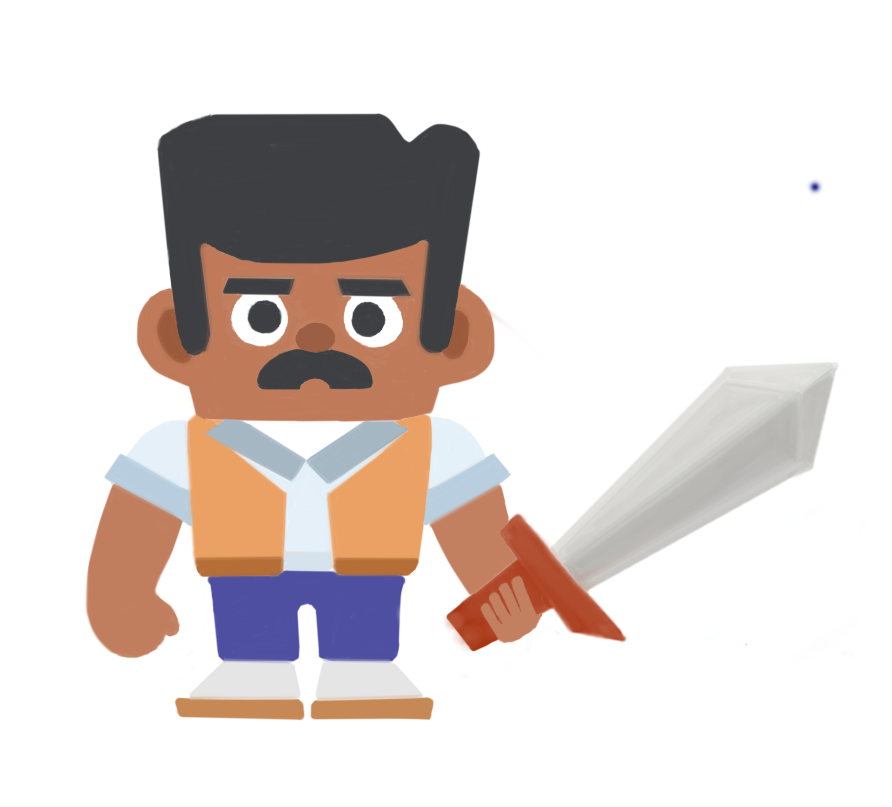
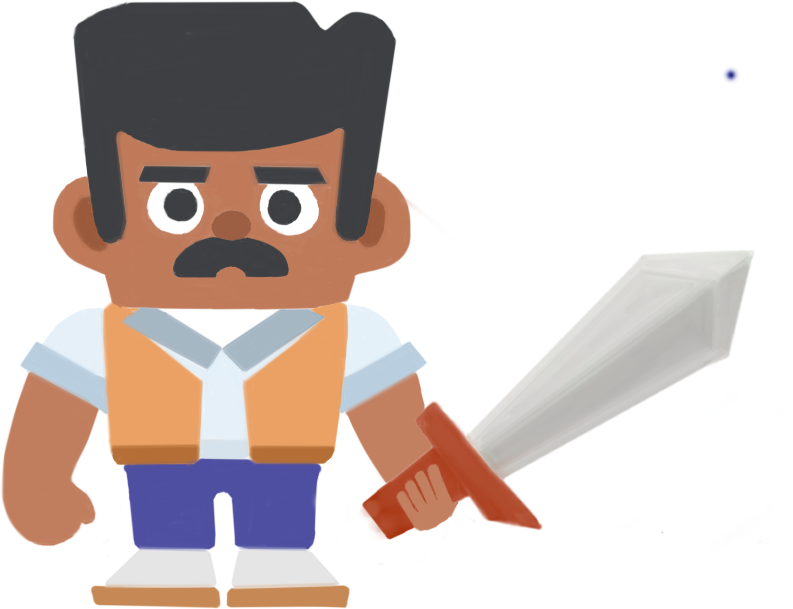
完成基础战斗界面相关UI以及对应代码

diff --git a/src/GameScene.ts b/src/GameScene.ts
@@ -1,11 +1,11 @@
 class GameScene extends Scene {
 	public hero11: Hero;
     public hero12: Hero;
-    public hero13: Hero;
     public hero21: Hero;
     public hero22: Hero;
-    public hero23: Hero;
-	
+	public first_hero: eui.Image;
+	public second_hero: eui.Image;
+	public timer: eui.Image;
 	public game_button:eui.Button;
 	public constructor() {
 		super();
@@ -22,28 +22,25 @@ class GameScene extends Scene {
 		super.childrenCreated();
 	}
 	protected onComplete(){
+
+		this.first_hero.texture = RES.getRes("swordman_png");
+		this.second_hero.texture = RES.getRes("bowman_png");
         this.hero11 = new Hero(1,1,"foot");
-		this.hero12 = new Hero(1,2,"archer");
-		this.hero13 = new Hero(1,3,"archer");
-		this.hero21 = new Hero(2,2,"archer");
-		this.hero22 = new Hero(2,1,"foot");
-		this.hero23 = new Hero(2,3,"foot");
-		var heros = [this.hero11,this.hero12,this.hero13,this.hero21,
-		this.hero22,this.hero23,
+		this.hero12 = new Hero(1,2,"archer");;
+		this.hero21 = new Hero(2,1,"archer");
+		this.hero22 = new Hero(2,2,"foot");
+		var heros = [this.hero11,this.hero12,this.hero21,
+		this.hero22,
 		]
 		var mcs= [this.hero11.mc, 
 		this.hero12.mc,
-		this.hero13.mc,
 		this.hero21.mc,
-		this.hero22.mc,
-		this.hero23.mc];
-        heros[0].target = heros[3];
-		heros[1].target = heros[4];
-		heros[2].target = heros[5];
-		heros[3].target = heros[0];
-		heros[4].target = heros[1];
-		heros[5].target = heros[2];
-        for (let i = 0; i < 6; i++ ){
+		this.hero22.mc,];
+        heros[0].target = heros[2];
+		heros[1].target = heros[3];
+		heros[2].target = heros[0];
+		heros[3].target = heros[1];
+        for (let i = 0; i < 4; i++ ){
 		this.addChild(mcs[i]);
 		}
         this.game_button.addEventListener(egret.TouchEvent.TOUCH_TAP, this.tap, this);

diff --git a/bin-debug/GameScene.js b/bin-debug/GameScene.js
@@ -20,28 +20,25 @@ var GameScene = (function (_super) {
         _super.prototype.childrenCreated.call(this);
     };
     GameScene.prototype.onComplete = function () {
+        this.first_hero.texture = RES.getRes("swordman_png");
+        this.second_hero.texture = RES.getRes("bowman_png");
         this.hero11 = new Hero(1, 1, "foot");
         this.hero12 = new Hero(1, 2, "archer");
-        this.hero13 = new Hero(1, 3, "archer");
-        this.hero21 = new Hero(2, 2, "archer");
-        this.hero22 = new Hero(2, 1, "foot");
-        this.hero23 = new Hero(2, 3, "foot");
-        var heros = [this.hero11, this.hero12, this.hero13, this.hero21,
-            this.hero22, this.hero23,
+        ;
+        this.hero21 = new Hero(2, 1, "archer");
+        this.hero22 = new Hero(2, 2, "foot");
+        var heros = [this.hero11, this.hero12, this.hero21,
+            this.hero22,
         ];
         var mcs = [this.hero11.mc,
             this.hero12.mc,
-            this.hero13.mc,
             this.hero21.mc,
-            this.hero22.mc,
-            this.hero23.mc];
-        heros[0].target = heros[3];
-        heros[1].target = heros[4];
-        heros[2].target = heros[5];
-        heros[3].target = heros[0];
-        heros[4].target = heros[1];
-        heros[5].target = heros[2];
-        for (var i = 0; i < 6; i++) {
+            this.hero22.mc,];
+        heros[0].target = heros[2];
+        heros[1].target = heros[3];
+        heros[2].target = heros[0];
+        heros[3].target = heros[1];
+        for (var i = 0; i < 4; i++) {
             this.addChild(mcs[i]);
         }
         this.game_button.addEventListener(egret.TouchEvent.TOUCH_TAP, this.tap, this);

diff --git a/src/Hero.ts b/src/Hero.ts
@@ -4,7 +4,6 @@ class Hero{
     public targetx:number;
     public targety:number;
     
-    public maxhp:number;
     public hp:number;
     public hpRecovery:number;
     public mp:number;
@@ -76,9 +75,8 @@ class Hero{
             archer:"bowman_png"
         };
         public positions = {
-            1: [20,50],
-            2: [30,100],
-            3: [40,150]
+            1: [80,50],
+            2: [40,80],
         }
     constructor(team:number,position:number,name:string){
         // var data = RES.getRes("test_json");
@@ -88,20 +86,23 @@ class Hero{
         // this.mc = mc1;
         
         this.mc = this.createEuiImageByName(this.img_sources[name]);
+        //测试start
         console.log(this.img_sources['foot']);
         console.log(RES.getRes("swordman_png"));
+        //end
         var mc  = this.mc;  
         mc.addEventListener(egret.Event.ENTER_FRAME,this.attackAndCheck,this);
-        mc.width = 20 ;
-        mc.height = 20;
+        mc.width = 100;
+        mc.height = 100;
         mc.top = this.positions[position][0];
         if(team == 1){
             mc.left = this.positions[position][1];           
         }else {
             mc.right = this.positions[position][1];
+            mc.scaleX = -1;
         }
+
         this.hp = this.heroMessage[name].hp;
-        this.maxhp = this.hp;
         this.hpRecovery = this.heroMessage[name].hpRecovery;
         this.mp = this.heroMessage[name].mp;
         this.mpRecovery = this.heroMessage[name].mpRecovery;

diff --git a/bin-debug/Hero.js b/bin-debug/Hero.js
@@ -57,23 +57,25 @@ var Hero = (function () {
             archer: "bowman_png"
         };
         this.positions = {
-            1: [20, 50],
-            2: [30, 100],
-            3: [40, 150]
+            1: [80, 50],
+            2: [40, 80],
         };
         this.mc = this.createEuiImageByName(this.img_sources[name]);
+        //测试start
         console.log(this.img_sources['foot']);
         console.log(RES.getRes("swordman_png"));
+        //end
         var mc = this.mc;
         mc.addEventListener(egret.Event.ENTER_FRAME, this.attackAndCheck, this);
-        mc.width = 20;
-        mc.height = 20;
+        mc.width = 100;
+        mc.height = 100;
         mc.top = this.positions[position][0];
         if (team == 1) {
             mc.left = this.positions[position][1];
         }
         else {
             mc.right = this.positions[position][1];
+            mc.scaleX = -1;
         }
         this.hp = this.heroMessage[name].hp;
         this.hpRecovery = this.heroMessage[name].hpRecovery;
